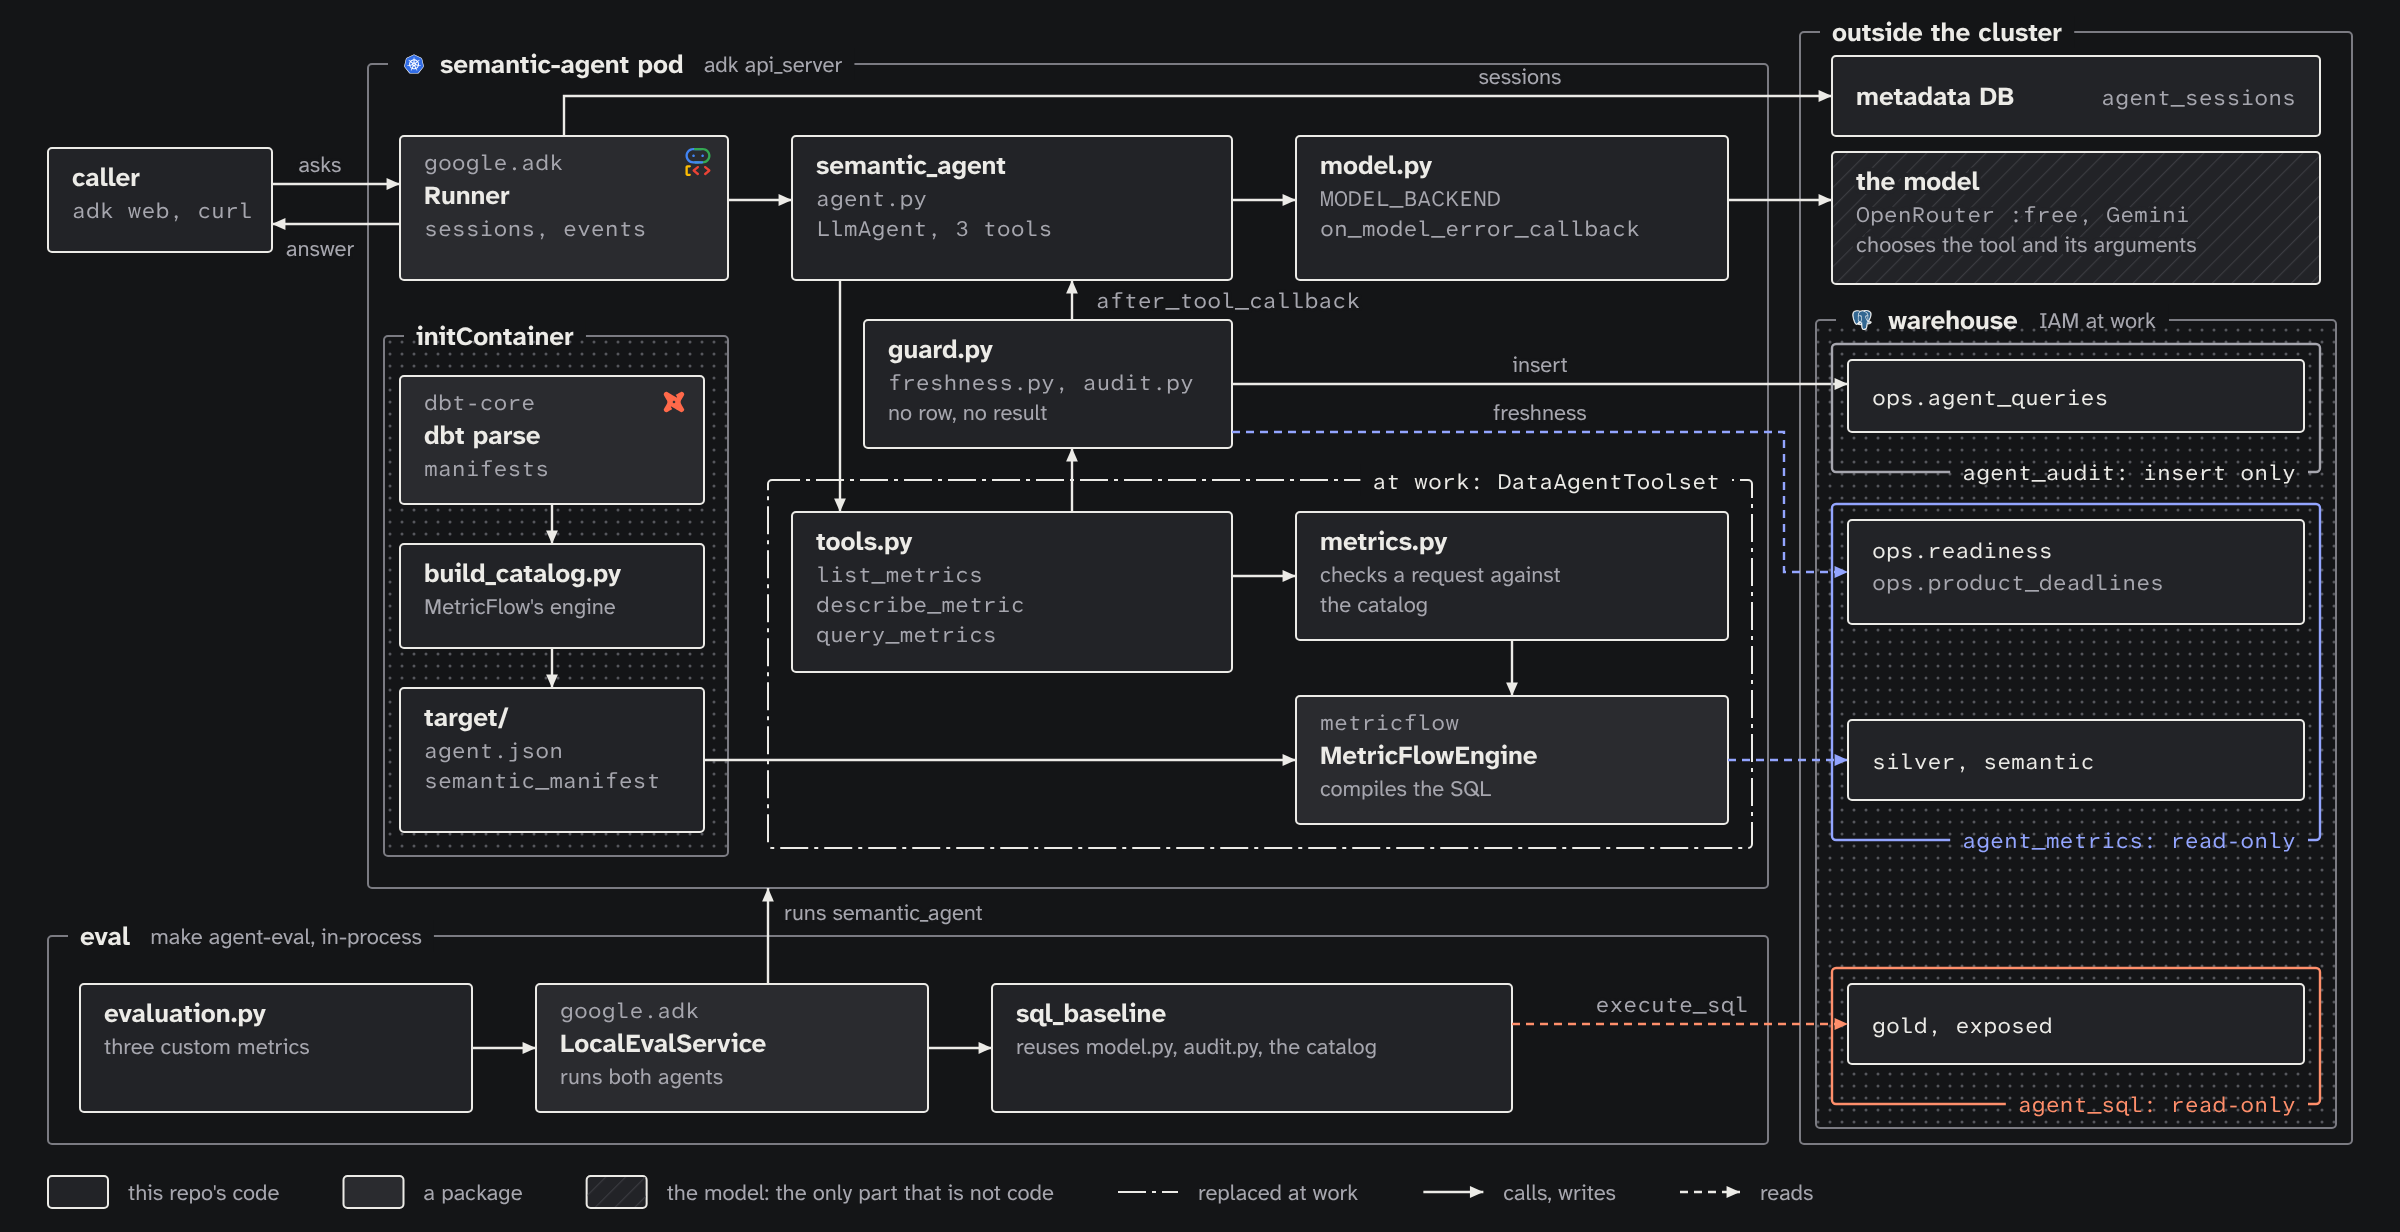
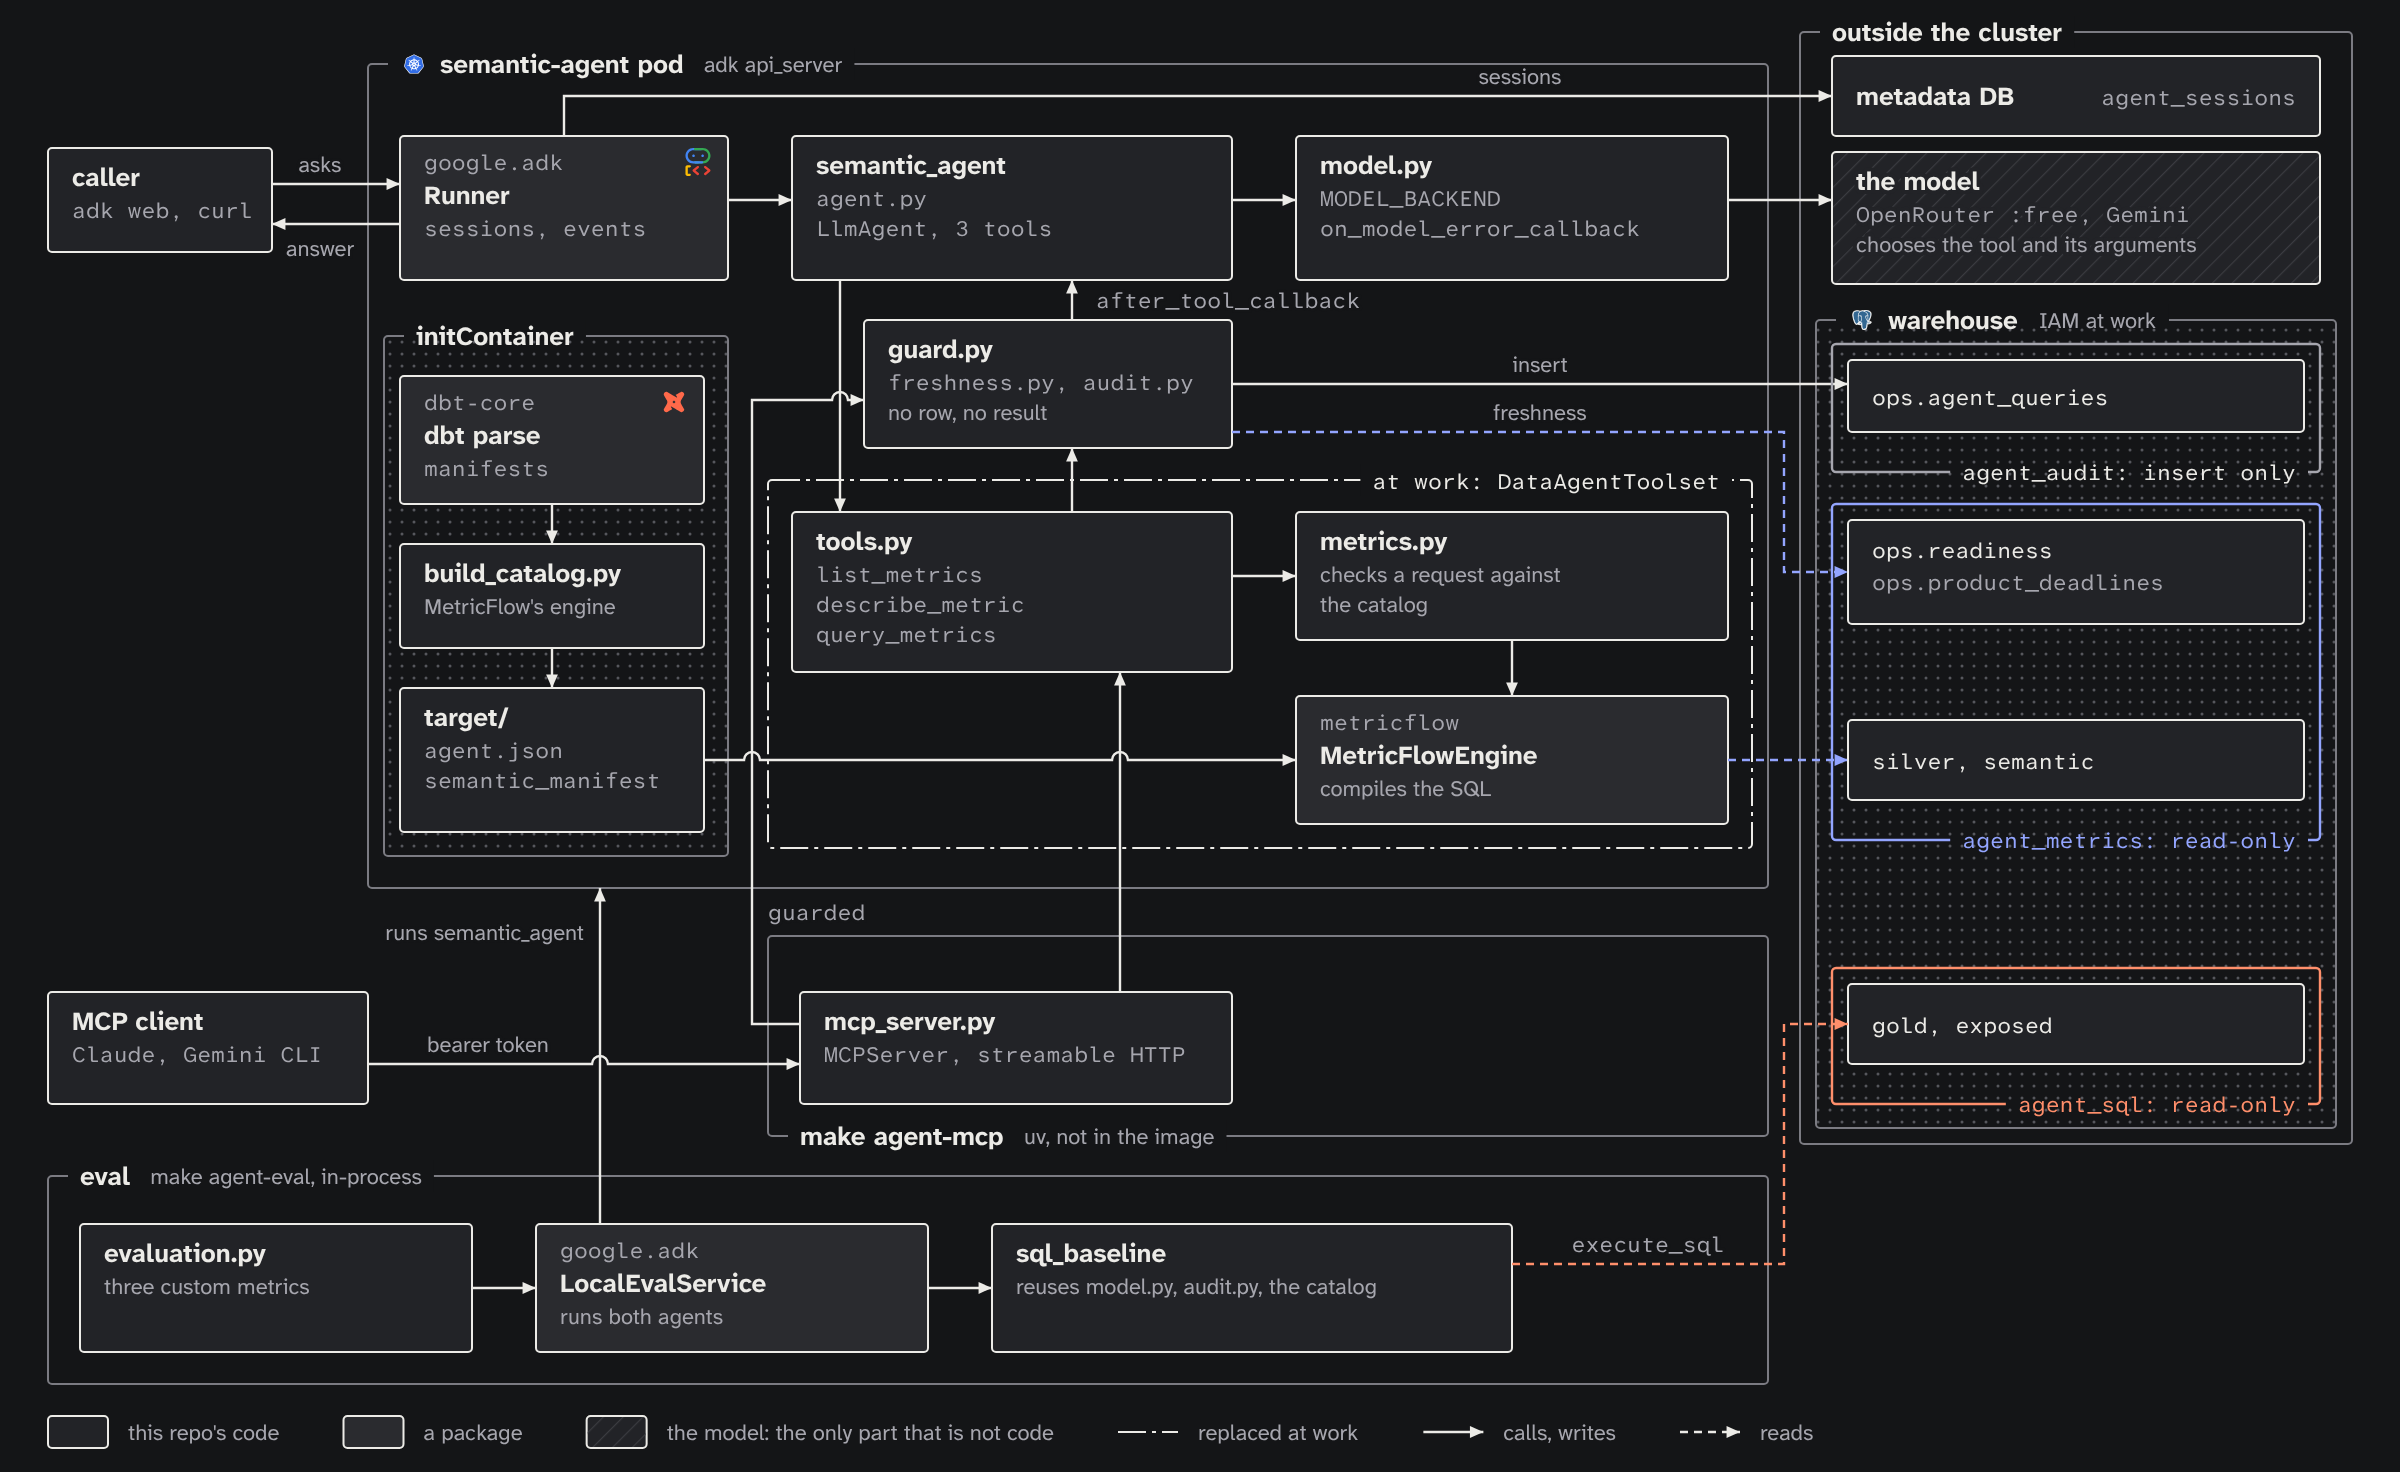
docs(semantic): draw the MCP server beside the ADK path in the semantic agent's picture
The sheet now shows an MCP client with its bearer token reaching mcp_server.py, a process
of its own (make agent-mcp, uv, not in the image), which calls tools.py and hands each data
result to guard.py's guarded, the code the pod's after_tool_callback runs.

Closes #282

Changed region(s): [[0.0312, 0.0, 0.9688, 0.987], [0.7188, 0.9562, 0.75, 0.987]]

diff --git a/assets/semantic-agent.html b/assets/semantic-agent.html
@@ -125,7 +125,7 @@ svg.sheet { display: block; width: 100%; height: auto; min-width: 720px; font-fa
 <body>
 <div class="stage">
   <figure>
-    <svg class="sheet" id="d" viewBox="0 0 1200 616" role="img" aria-label="Inside the semantic agent, in the order a question travels. A caller asks ADK's Runner, which keeps sessions in the metadata DB outside the cluster and hands the question to the LlmAgent in agent.py. The agent calls the model through model.py; the model, hatched, is the only part that is not code: it chooses the tool and its arguments. The agent calls tools.py; query_metrics has metrics.py check the request against the catalog and MetricFlow's engine compile the SQL, read as agent_metrics from silver and semantic; Every result passes through guard.py, ADK's after_tool_callback, outside the toolset: it attaches the freshness of the result's metrics from the readiness ledger, read as agent_metrics, then inserts one row into ops.agent_queries as agent_audit, and withholds the result if it cannot. An initContainer runs dbt parse and build_catalog.py into target/, which holds the catalog. A chain line marks the toolset the work platform replaces with DataAgentToolset. The eval runs the agent and a text-to-SQL baseline, which reads gold and exposed as agent_sql, on ADK's LocalEvalService."></svg>
+    <svg class="sheet" id="d" viewBox="0 0 1200 736" role="img" aria-label="Inside the semantic agent, in the order a question travels. A caller asks ADK's Runner, which keeps sessions in the metadata DB outside the cluster and hands the question to the LlmAgent in agent.py. The agent calls the model through model.py; the model, hatched, is the only part that is not code: it chooses the tool and its arguments. The agent calls tools.py; query_metrics has metrics.py check the request against the catalog and MetricFlow's engine compile the SQL, read as agent_metrics from silver and semantic; every result passes through guard.py, ADK's after_tool_callback, outside the toolset: it attaches the freshness of the result's metrics from the readiness ledger, read as agent_metrics, then inserts one row into ops.agent_queries as agent_audit, and withholds the result if it cannot. Agents outside ADK, such as Claude or Gemini CLI, reach the same tools over MCP: an MCP client presents its bearer token to mcp_server.py, a process of its own that make agent-mcp runs with uv and the agent image leaves out, which calls tools.py and hands every data result to guard.py's guarded, the code ADK's callback runs, so its audit row names the agent the token names. An initContainer runs dbt parse and build_catalog.py into target/, which holds the catalog. A chain line marks the toolset the work platform replaces with DataAgentToolset. The eval runs the agent and a text-to-SQL baseline, which reads gold and exposed as agent_sql, on ADK's LocalEvalService."></svg>
   </figure>
 </div>
 <script>
@@ -528,17 +528,26 @@ Sheet.ready().then(() => {
   S.region({ x: 916, y: 484, w: 244, h: 68, tone: 'vermilion', role: 'agent_sql: read-only', edge: 'bottom' });
   S.card({ x: 924, y: 492, w: 228, h: 40, title: 'gold, exposed', tcls: 'mono' });
 
-  // ---- the eval, in-process
-  S.frame({ x: 24, y: 468, w: 860, h: 104, title: 'eval', note: 'make agent-eval, in-process' });
-  S.card({ x: 40, y: 492, w: 196, h: 64, title: 'evaluation.py', lines: ['three custom metrics'] });
-  S.card({ x: 268, y: 492, w: 196, h: 64, title: 'LocalEvalService', lines: ['runs both agents'], pkg: 'google.adk' });
-  S.card({ x: 496, y: 492, w: 260, h: 64, title: 'sql_baseline', lines: ['reuses model.py, audit.py, the catalog'] });
-  S.edge('M236,524 H268');
-  S.edge('M464,524 H496');
-  S.edge('M384,492 V444', { label: { text: 'runs semantic_agent', at: [392, 460], anchor: 'start' } });
-  S.edge('M756,512 H924', { reads: true, tone: 'vermilion', label: { text: 'execute_sql', at: [836, 506], mono: true } });
+  // ---- the MCP server: the same tools and the same guard for agents outside ADK, served by its own
+  // process (make agent-mcp, with uv), not by the pod: the agent image leaves it out (SL-19, SL-20)
+  S.card({ x: 24, y: 496, w: 160, h: 56, title: 'MCP client', lines: [{ mono: 'Claude, Gemini CLI' }] });
+  S.edge('M184,532 H400', { label: { text: 'bearer token', at: [244, 526] } });
+  S.frame({ x: 384, y: 468, w: 500, h: 100, title: 'make agent-mcp', note: 'uv, not in the image', edge: 'bottom' });
+  S.card({ x: 400, y: 496, w: 216, h: 56, title: 'mcp_server.py', lines: [{ mono: 'MCPServer, streamable HTTP' }] });
+  S.edge('M560,496 V336');
+  S.edge('M400,512 H376 V200 H432', { label: { text: 'guarded', at: [384, 460], anchor: 'start', mono: true } });
 
-  S.legend(24, 596, [['card', "this repo's code"], ['pkg', 'a package'], ['hatch', 'the model: the only part that is not code'], ['phantom', 'replaced at work'], ['calls', 'calls, writes'], ['reads', 'reads']]);
+  // ---- the eval, in-process
+  S.frame({ x: 24, y: 588, w: 860, h: 104, title: 'eval', note: 'make agent-eval, in-process' });
+  S.card({ x: 40, y: 612, w: 196, h: 64, title: 'evaluation.py', lines: ['three custom metrics'] });
+  S.card({ x: 268, y: 612, w: 196, h: 64, title: 'LocalEvalService', lines: ['runs both agents'], pkg: 'google.adk' });
+  S.card({ x: 496, y: 612, w: 260, h: 64, title: 'sql_baseline', lines: ['reuses model.py, audit.py, the catalog'] });
+  S.edge('M236,644 H268');
+  S.edge('M464,644 H496');
+  S.edge('M300,612 V444', { label: { text: 'runs semantic_agent', at: [292, 470], anchor: 'end' } });
+  S.edge('M756,632 H892 V512 H924', { reads: true, tone: 'vermilion', label: { text: 'execute_sql', at: [824, 626], mono: true } });
+
+  S.legend(24, 716, [['card', "this repo's code"], ['pkg', 'a package'], ['hatch', 'the model: the only part that is not code'], ['phantom', 'replaced at work'], ['calls', 'calls, writes'], ['reads', 'reads']]);
   S.done();
 });
 </script>

diff --git a/services/semantic-agent/README.md b/services/semantic-agent/README.md
@@ -10,10 +10,11 @@ It stands in for a Cloud Run service; at work the metric toolset is the seam a n
 
 <picture>
   <source media="(prefers-color-scheme: dark)" srcset="../../assets/semantic-agent-dark.png">
-  <img width="1200" alt="Inside the semantic agent, in the order a question travels: a caller asks ADK's Runner, which keeps sessions in the metadata DB outside the cluster and hands the question to the LlmAgent in agent.py; the agent calls the model through model.py, and the model, hatched, is the only part that is not code: it chooses the tool and its arguments; tools.py's query_metrics has metrics.py check the request against the catalog and MetricFlow's engine compile the SQL, read as agent_metrics; every result passes through guard.py, ADK's after_tool_callback outside the toolset, which attaches its metrics' freshness from the readiness ledger and inserts one row as agent_audit, or withholds the result; an initContainer runs dbt parse and build_catalog.py into target/; a chain line marks the toolset the work platform replaces with DataAgentToolset; the eval runs the agent and a text-to-SQL baseline, which reads gold and exposed as agent_sql, on ADK's LocalEvalService" src="../../assets/semantic-agent.png">
+  <img width="1200" alt="Inside the semantic agent, in the order a question travels. A caller asks ADK's Runner, which keeps sessions in the metadata DB outside the cluster and hands the question to the LlmAgent in agent.py. The agent calls the model through model.py; the model, hatched, is the only part that is not code: it chooses the tool and its arguments. The agent calls tools.py; query_metrics has metrics.py check the request against the catalog and MetricFlow's engine compile the SQL, read as agent_metrics from silver and semantic; every result passes through guard.py, ADK's after_tool_callback, outside the toolset: it attaches the freshness of the result's metrics from the readiness ledger, read as agent_metrics, then inserts one row into ops.agent_queries as agent_audit, and withholds the result if it cannot. Agents outside ADK, such as Claude or Gemini CLI, reach the same tools over MCP: an MCP client presents its bearer token to mcp_server.py, a process of its own that make agent-mcp runs with uv and the agent image leaves out, which calls tools.py and hands every data result to guard.py's guarded, the code ADK's callback runs, so its audit row names the agent the token names. An initContainer runs dbt parse and build_catalog.py into target/, which holds the catalog. A chain line marks the toolset the work platform replaces with DataAgentToolset. The eval runs the agent and a text-to-SQL baseline, which reads gold and exposed as agent_sql, on ADK's LocalEvalService." src="../../assets/semantic-agent.png">
 </picture>
 
 The picture runs top to bottom in the order a question travels.
+Below the pod, `make agent-mcp` serves the same tools to agents outside ADK in a process of its own, run with uv and left out of the image ([Over MCP](#over-mcp)); its data calls reach `guard.py` through `guarded`, the code the pod's callback runs.
 Grey cards are a package's code, named above their title, and white cards this repo's; the hatched card is the model, the only part that is not code; a chain (dash-dot) line marks what the work platform replaces; cobalt is what the agent reads as `agent_metrics`, vermilion what the baseline reads as `agent_sql`; a logo marks a core technology once, at one size.
 The source is [`assets/semantic-agent.html`](../../assets/semantic-agent.html), one level below the whole lab, [`assets/platform.html`](../../assets/platform.html).
 Most of the agent is reuse: ADK owns the runner, the sessions, the event loop, serving and the eval engine; MetricFlow owns the metric definitions and compiles every query; dbt's parse owns the manifests the catalog and the warehouse objects come from.

diff --git a/ledger.d/2026-11-02-282-mcp-in-agent-picture.md b/ledger.d/2026-11-02-282-mcp-in-agent-picture.md
@@ -1,0 +1,7 @@
+## 2026-11-02 — Semantic track — the MCP server in the semantic agent's picture (#282)
+
+- Done: `assets/semantic-agent.html` draws the MCP path below the pod: an MCP client presents its bearer token to `mcp_server.py`, in its own `make agent-mcp` frame (uv, not in the image), which calls `tools.py` and reaches `guard.py` through `guarded`; the eval moves down to make room.
+- Done: both PNGs re-rendered; the README's alt text is the sheet's `aria-label`, and its key says what the MCP row is.
+- Evidence: the draw-architecture checker reports 0 problems in light and dark, 4 crossings bridged.
+- Decisions: none.
+- Open: none.
